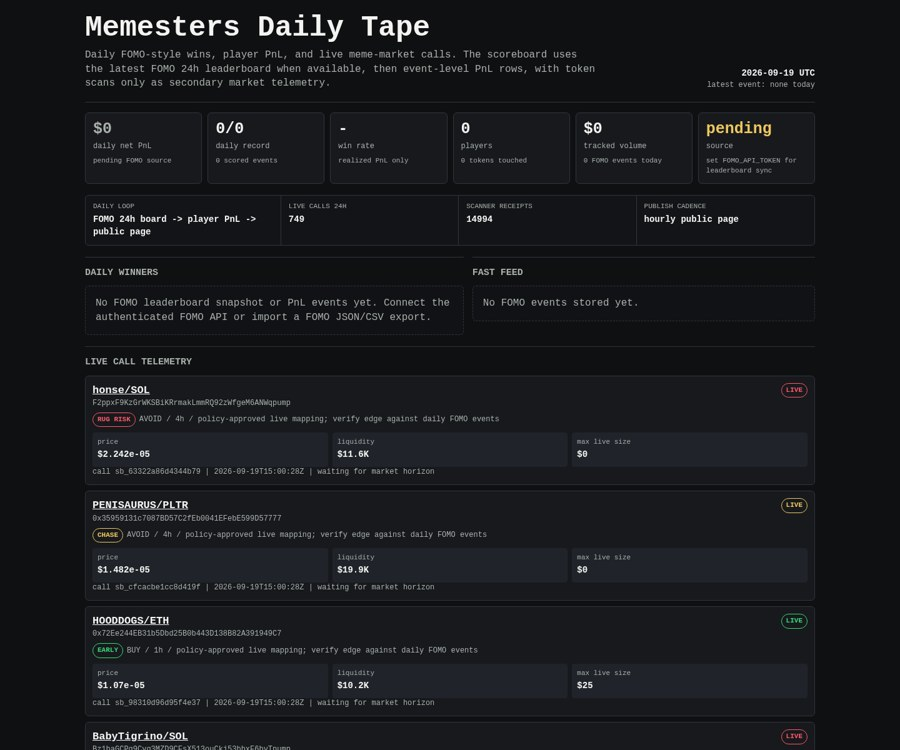
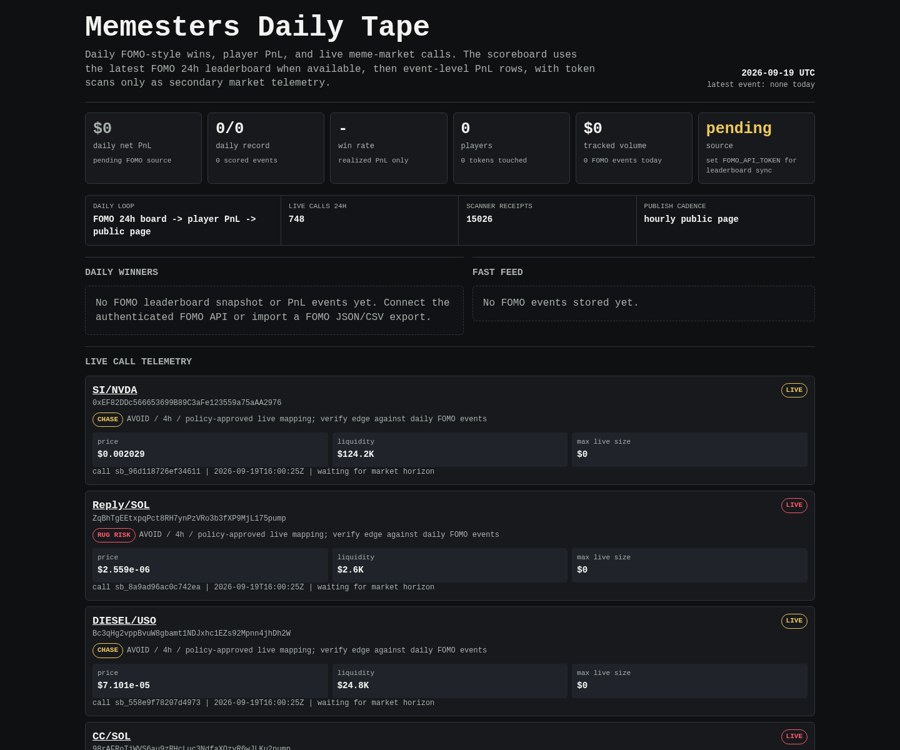
Update Memesters scoreboard

diff --git a/memesters/index.html b/memesters/index.html
@@ -149,8 +149,8 @@
 
     <div class="rail" aria-label="live operating loop">
       <div><span>daily loop</span><b>FOMO 24h board -> player PnL -> public page</b></div>
-      <div><span>live calls 24h</span><b>749</b></div>
-      <div><span>scanner receipts</span><b>14994</b></div>
+      <div><span>live calls 24h</span><b>748</b></div>
+      <div><span>scanner receipts</span><b>15026</b></div>
       <div><span>publish cadence</span><b>hourly public page</b></div>
     </div>
 
@@ -171,29 +171,8 @@
     <article class="receipt">
       <div class="receipt-head">
         <div>
-          <div class="pair"><a href="https://dexscreener.com/solana/hvkrals89qrv16wtbbz96duee4xdg2nk4fqrwd4tgmey">honse/SOL</a></div>
-          <div class="addr">F2ppxF9KzGrWKSBiKRrmakLmmRQ92zWfgeM6ANWqpump</div>
-          <div class="addr policy-line">
-            <span class="badge rug-risk">RUG RISK</span>
-            <span>AVOID / 4h / policy-approved live mapping; verify edge against daily FOMO events</span>
-          </div>
-        </div>
-        <span class="badge rug-risk">LIVE</span>
-      </div>
-      <div class="receipt-grid">
-        <div class="kv"><span>price</span><b>$2.242e-05</b></div>
-        <div class="kv"><span>liquidity</span><b>$11.6K</b></div>
-        <div class="kv"><span>max live size</span><b>$0</b></div>
-      </div>
-      <div class="outcomes">call sb_63322a86d4344b79 | 2026-09-19T15:00:28Z | waiting for market horizon</div>
-    </article>
-    
-
-    <article class="receipt">
-      <div class="receipt-head">
-        <div>
-          <div class="pair"><a href="https://dexscreener.com/robinhood/0xf53a5886f648023baadb52a7e153e67c9e652bf8">PENISAURUS/PLTR</a></div>
-          <div class="addr">0x35959131c7087BD57C2fEb0041EFebE599D57777</div>
+          <div class="pair"><a href="https://dexscreener.com/robinhood/0x229da7b0c376132113a48878fe680519265e9e93c45a17ae1569047c2dc4bd26">SI/NVDA</a></div>
+          <div class="addr">0xEF82DDc566653699B89C3aFe123559a75aAA2976</div>
           <div class="addr policy-line">
             <span class="badge chase">CHASE</span>
             <span>AVOID / 4h / policy-approved live mapping; verify edge against daily FOMO events</span>
@@ -202,40 +181,19 @@
         <span class="badge chase">LIVE</span>
       </div>
       <div class="receipt-grid">
-        <div class="kv"><span>price</span><b>$1.482e-05</b></div>
-        <div class="kv"><span>liquidity</span><b>$19.9K</b></div>
+        <div class="kv"><span>price</span><b>$0.002029</b></div>
+        <div class="kv"><span>liquidity</span><b>$124.2K</b></div>
         <div class="kv"><span>max live size</span><b>$0</b></div>
       </div>
-      <div class="outcomes">call sb_cfcacbe1cc8d419f | 2026-09-19T15:00:28Z | waiting for market horizon</div>
+      <div class="outcomes">call sb_96d118726ef34611 | 2026-09-19T16:00:25Z | waiting for market horizon</div>
     </article>
     
 
     <article class="receipt">
       <div class="receipt-head">
         <div>
-          <div class="pair"><a href="https://dexscreener.com/robinhood/0xdf707c3fccaf93e0c8a21c552651d8292d90b0af84260751d4046425fdd5a2fb">HOODDOGS/ETH</a></div>
-          <div class="addr">0x72Ee244EB31b5Dbd25B0b443D138B82A391949C7</div>
-          <div class="addr policy-line">
-            <span class="badge early">EARLY</span>
-            <span>BUY / 1h / policy-approved live mapping; verify edge against daily FOMO events</span>
-          </div>
-        </div>
-        <span class="badge early">LIVE</span>
-      </div>
-      <div class="receipt-grid">
-        <div class="kv"><span>price</span><b>$1.07e-05</b></div>
-        <div class="kv"><span>liquidity</span><b>$10.2K</b></div>
-        <div class="kv"><span>max live size</span><b>$25</b></div>
-      </div>
-      <div class="outcomes">call sb_98310d96d95f4e37 | 2026-09-19T15:00:28Z | waiting for market horizon</div>
-    </article>
-    
-
-    <article class="receipt">
-      <div class="receipt-head">
-        <div>
-          <div class="pair"><a href="https://dexscreener.com/solana/g1btdpy2teifbgxjlhenwy8rgtjphmuendjzfzggndsi">BabyTigrino/SOL</a></div>
-          <div class="addr">Bz1baGCPq9Cyq3MZD9CFsX513ouCkj53bbxF6byTpump</div>
+          <div class="pair"><a href="https://dexscreener.com/solana/gzsvkq4obnhzk17879rqfd2yymscbbsm62k2sg4pq297">Reply/SOL</a></div>
+          <div class="addr">ZqBhTgEEtxpqPct8RH7ynPzVRo3b3fXP9MjL175pump</div>
           <div class="addr policy-line">
             <span class="badge rug-risk">RUG RISK</span>
             <span>AVOID / 4h / policy-approved live mapping; verify edge against daily FOMO events</span>
@@ -244,19 +202,40 @@
         <span class="badge rug-risk">LIVE</span>
       </div>
       <div class="receipt-grid">
-        <div class="kv"><span>price</span><b>$2.574e-06</b></div>
+        <div class="kv"><span>price</span><b>$2.559e-06</b></div>
         <div class="kv"><span>liquidity</span><b>$2.6K</b></div>
         <div class="kv"><span>max live size</span><b>$0</b></div>
       </div>
-      <div class="outcomes">call sb_bc947c75d85b4e25 | 2026-09-19T15:00:28Z | waiting for market horizon</div>
+      <div class="outcomes">call sb_8a9ad96ac0c742ea | 2026-09-19T16:00:25Z | waiting for market horizon</div>
     </article>
     
 
     <article class="receipt">
       <div class="receipt-head">
         <div>
-          <div class="pair"><a href="https://dexscreener.com/bsc/0x98aa241e7a9f0e7176aa2b0c3f6816fa854c1091">DIAX/WBNB</a></div>
-          <div class="addr">0xd9a093f9ac6B2Ab0E2e15Eaf83dE3f5682A97777</div>
+          <div class="pair"><a href="https://dexscreener.com/solana/3rrbvdkjqpjfyh1mptgbfljquqnshu6ewk8etw95fxya">DIESEL/USO</a></div>
+          <div class="addr">Bc3qHg2vppBvuW8gbamt1NDJxhc1EZs92Mpnn4jhDh2W</div>
+          <div class="addr policy-line">
+            <span class="badge chase">CHASE</span>
+            <span>AVOID / 4h / policy-approved live mapping; verify edge against daily FOMO events</span>
+          </div>
+        </div>
+        <span class="badge chase">LIVE</span>
+      </div>
+      <div class="receipt-grid">
+        <div class="kv"><span>price</span><b>$7.101e-05</b></div>
+        <div class="kv"><span>liquidity</span><b>$24.8K</b></div>
+        <div class="kv"><span>max live size</span><b>$0</b></div>
+      </div>
+      <div class="outcomes">call sb_558e9f78207d4973 | 2026-09-19T16:00:25Z | waiting for market horizon</div>
+    </article>
+    
+
+    <article class="receipt">
+      <div class="receipt-head">
+        <div>
+          <div class="pair"><a href="https://dexscreener.com/solana/cmhv5rkl7axdimoaesxqjlvab7rjisbr7rnh6empvqts">CC/SOL</a></div>
+          <div class="addr">98rAFRoTjWVS6au9zRHcLuc3NdfaXQzvR6wJLKu2pump</div>
           <div class="addr policy-line">
             <span class="badge rug-risk">RUG RISK</span>
             <span>AVOID / 4h / policy-approved live mapping; verify edge against daily FOMO events</span>
@@ -265,19 +244,103 @@
         <span class="badge rug-risk">LIVE</span>
       </div>
       <div class="receipt-grid">
-        <div class="kv"><span>price</span><b>$2.133e-05</b></div>
-        <div class="kv"><span>liquidity</span><b>$14.8K</b></div>
+        <div class="kv"><span>price</span><b>$5.645e-05</b></div>
+        <div class="kv"><span>liquidity</span><b>$19.5K</b></div>
         <div class="kv"><span>max live size</span><b>$0</b></div>
       </div>
-      <div class="outcomes">call sb_68f456b956fc42e0 | 2026-09-19T15:00:28Z | waiting for market horizon</div>
+      <div class="outcomes">call sb_c12f4ff8776c479e | 2026-09-19T16:00:25Z | waiting for market horizon</div>
     </article>
     
 
     <article class="receipt">
       <div class="receipt-head">
         <div>
-          <div class="pair"><a href="https://dexscreener.com/robinhood/0xaff9b5ec59c1490f5df2aa234c5ea0bb62ade72a0332962ff7ec04024751df51">NEWSLY/ETH</a></div>
-          <div class="addr">0xeC302678955599248Fd269126191586dd58297C6</div>
+          <div class="pair"><a href="https://dexscreener.com/robinhood/0xe56fbc75e26ac8c0e36218dc96c445cc912fe3377338059f820a2497f14cb826">SI/ETH</a></div>
+          <div class="addr">0xada319ac0e1f755BB1D5d1ffA6797aCa98e6e4fC</div>
+          <div class="addr policy-line">
+            <span class="badge chase">CHASE</span>
+            <span>AVOID / 4h / policy-approved live mapping; verify edge against daily FOMO events</span>
+          </div>
+        </div>
+        <span class="badge chase">LIVE</span>
+      </div>
+      <div class="receipt-grid">
+        <div class="kv"><span>price</span><b>$0.0001215</b></div>
+        <div class="kv"><span>liquidity</span><b>$33.2K</b></div>
+        <div class="kv"><span>max live size</span><b>$0</b></div>
+      </div>
+      <div class="outcomes">call sb_60783157ba1e48fe | 2026-09-19T16:00:25Z | waiting for market horizon</div>
+    </article>
+    
+
+    <article class="receipt">
+      <div class="receipt-head">
+        <div>
+          <div class="pair"><a href="https://dexscreener.com/arc/0xfaa448afbaa9809acf8c6d42dd931ecc31d2d2b0b65ae4ad7b9336f711049bdd">UPCAT/USDC</a></div>
+          <div class="addr">0x3dD8Ef5722a1F9cE703916F897333BCCAF4Bd6D9</div>
+          <div class="addr policy-line">
+            <span class="badge chase">CHASE</span>
+            <span>AVOID / 4h / policy-approved live mapping; verify edge against daily FOMO events</span>
+          </div>
+        </div>
+        <span class="badge chase">LIVE</span>
+      </div>
+      <div class="receipt-grid">
+        <div class="kv"><span>price</span><b>$4.58e-05</b></div>
+        <div class="kv"><span>liquidity</span><b>$18.8K</b></div>
+        <div class="kv"><span>max live size</span><b>$0</b></div>
+      </div>
+      <div class="outcomes">call sb_ad3c9e7c13e64969 | 2026-09-19T16:00:24Z | waiting for market horizon</div>
+    </article>
+    
+
+    <article class="receipt">
+      <div class="receipt-head">
+        <div>
+          <div class="pair"><a href="https://dexscreener.com/robinhood/0xce081cb94cbea8ff0cc00c2be82d6c741369ed4a">SI/WETH</a></div>
+          <div class="addr">0xCEaa9679Aa4800C015e49D2751b726E8d4816636</div>
+          <div class="addr policy-line">
+            <span class="badge chase">CHASE</span>
+            <span>AVOID / 4h / policy-approved live mapping; verify edge against daily FOMO events</span>
+          </div>
+        </div>
+        <span class="badge chase">LIVE</span>
+      </div>
+      <div class="receipt-grid">
+        <div class="kv"><span>price</span><b>$0.0004923</b></div>
+        <div class="kv"><span>liquidity</span><b>$73.5K</b></div>
+        <div class="kv"><span>max live size</span><b>$0</b></div>
+      </div>
+      <div class="outcomes">call sb_a5990866f07444e5 | 2026-09-19T16:00:24Z | waiting for market horizon</div>
+    </article>
+    
+
+    <article class="receipt">
+      <div class="receipt-head">
+        <div>
+          <div class="pair"><a href="https://dexscreener.com/solana/daqikrje2cokuz3vda1l6zcqfharvqlujltaheeijf8j">SI/NVDAx</a></div>
+          <div class="addr">67buYJjYX5usoVtefwS5vXJvELK2ijxD334igCjXsNh4</div>
+          <div class="addr policy-line">
+            <span class="badge chase">CHASE</span>
+            <span>AVOID / 4h / policy-approved live mapping; verify edge against daily FOMO events</span>
+          </div>
+        </div>
+        <span class="badge chase">LIVE</span>
+      </div>
+      <div class="receipt-grid">
+        <div class="kv"><span>price</span><b>$0.000367</b></div>
+        <div class="kv"><span>liquidity</span><b>$58.1K</b></div>
+        <div class="kv"><span>max live size</span><b>$0</b></div>
+      </div>
+      <div class="outcomes">call sb_21d1198e91b54cf7 | 2026-09-19T16:00:24Z | waiting for market horizon</div>
+    </article>
+    
+
+    <article class="receipt">
+      <div class="receipt-head">
+        <div>
+          <div class="pair"><a href="https://dexscreener.com/robinhood/0x2614c9479e47c377fb51d4d3717d510765cb368a">Annoyed/WETH</a></div>
+          <div class="addr">0xe650C71200eBDF80A63B40a88B3B130aba2ca86a</div>
           <div class="addr policy-line">
             <span class="badge early">EARLY</span>
             <span>BUY / 1h / policy-approved live mapping; verify edge against daily FOMO events</span>
@@ -286,40 +349,19 @@
         <span class="badge early">LIVE</span>
       </div>
       <div class="receipt-grid">
-        <div class="kv"><span>price</span><b>$5.28e-05</b></div>
-        <div class="kv"><span>liquidity</span><b>$21.9K</b></div>
-        <div class="kv"><span>max live size</span><b>$39</b></div>
+        <div class="kv"><span>price</span><b>$7.931e-06</b></div>
+        <div class="kv"><span>liquidity</span><b>$7.9K</b></div>
+        <div class="kv"><span>max live size</span><b>$95</b></div>
       </div>
-      <div class="outcomes">call sb_fa4959d04ad04de2 | 2026-09-19T15:00:28Z | waiting for market horizon</div>
+      <div class="outcomes">call sb_36deda4711dd468c | 2026-09-19T15:45:24Z | waiting for market horizon</div>
     </article>
     
 
     <article class="receipt">
       <div class="receipt-head">
         <div>
-          <div class="pair"><a href="https://dexscreener.com/robinhood/0xcd8042b77d2e86a2204b5fb842fb885a5277ad8756de2a4db97a3d0e73963b84">GHOST/ETH</a></div>
-          <div class="addr">0x1B617f3CEE8EB9cabe03A32b1F0a1797302DbFDE</div>
-          <div class="addr policy-line">
-            <span class="badge early">EARLY</span>
-            <span>BUY / 1h / policy-approved live mapping; verify edge against daily FOMO events</span>
-          </div>
-        </div>
-        <span class="badge early">LIVE</span>
-      </div>
-      <div class="receipt-grid">
-        <div class="kv"><span>price</span><b>$8.261e-05</b></div>
-        <div class="kv"><span>liquidity</span><b>$27.3K</b></div>
-        <div class="kv"><span>max live size</span><b>$151</b></div>
-      </div>
-      <div class="outcomes">call sb_f62720061f434d9f | 2026-09-19T15:00:28Z | waiting for market horizon</div>
-    </article>
-    
-
-    <article class="receipt">
-      <div class="receipt-head">
-        <div>
-          <div class="pair"><a href="https://dexscreener.com/hyperevm/0x1bd1301545c0d539b88952a5b933eb1edb8565aa">HYPIO/WHYPE</a></div>
-          <div class="addr">0xB0C7F5A467E3965d76D8EEd4b2589Ab2f3E19116</div>
+          <div class="pair"><a href="https://dexscreener.com/bsc/0x5f7e397e4e47daa46085b80c9c5477002058d3cd">Conviction/WBNB</a></div>
+          <div class="addr">0xB0F15CFbE1670439fcb343C4AFD650Cb776f28fF</div>
           <div class="addr policy-line">
             <span class="badge chase">CHASE</span>
             <span>AVOID / 4h / policy-approved live mapping; verify edge against daily FOMO events</span>
@@ -328,53 +370,11 @@
         <span class="badge chase">LIVE</span>
       </div>
       <div class="receipt-grid">
-        <div class="kv"><span>price</span><b>$2.634e-05</b></div>
-        <div class="kv"><span>liquidity</span><b>$11.4K</b></div>
+        <div class="kv"><span>price</span><b>$1.602e-05</b></div>
+        <div class="kv"><span>liquidity</span><b>$14.2K</b></div>
         <div class="kv"><span>max live size</span><b>$0</b></div>
       </div>
-      <div class="outcomes">call sb_436625ff00284bab | 2026-09-19T15:00:28Z | waiting for market horizon</div>
-    </article>
-    
-
-    <article class="receipt">
-      <div class="receipt-head">
-        <div>
-          <div class="pair"><a href="https://dexscreener.com/solana/hucw8klryoma5gmzvaxf2b1jxdebhxnvkllgradjjhbj">INURANUS/SPCXx</a></div>
-          <div class="addr">FKWAyaxNccZCgT142vdMT6658geBEJb7cdNNkMb86Kwo</div>
-          <div class="addr policy-line">
-            <span class="badge chase">CHASE</span>
-            <span>AVOID / 4h / policy-approved live mapping; verify edge against daily FOMO events</span>
-          </div>
-        </div>
-        <span class="badge chase">LIVE</span>
-      </div>
-      <div class="receipt-grid">
-        <div class="kv"><span>price</span><b>$0.0003957</b></div>
-        <div class="kv"><span>liquidity</span><b>$59.9K</b></div>
-        <div class="kv"><span>max live size</span><b>$0</b></div>
-      </div>
-      <div class="outcomes">call sb_009652e1d8c24590 | 2026-09-19T14:45:22Z | waiting for market horizon</div>
-    </article>
-    
-
-    <article class="receipt">
-      <div class="receipt-head">
-        <div>
-          <div class="pair"><a href="https://dexscreener.com/solana/bkknmza8sucsrla5twxbkzb8x3agwmn9egeynelfeac9">牛市/SOL</a></div>
-          <div class="addr">Bfcs7bKFD7Yk55hWDSNi3iHdDzTz5572hV9NQvjRpump</div>
-          <div class="addr policy-line">
-            <span class="badge chase">CHASE</span>
-            <span>AVOID / 4h / policy-approved live mapping; verify edge against daily FOMO events</span>
-          </div>
-        </div>
-        <span class="badge chase">LIVE</span>
-      </div>
-      <div class="receipt-grid">
-        <div class="kv"><span>price</span><b>$8.461e-05</b></div>
-        <div class="kv"><span>liquidity</span><b>$24.1K</b></div>
-        <div class="kv"><span>max live size</span><b>$0</b></div>
-      </div>
-      <div class="outcomes">call sb_45f030544f6d4107 | 2026-09-19T14:45:22Z | waiting for market horizon</div>
+      <div class="outcomes">call sb_7d3833b229bd48a1 | 2026-09-19T15:45:24Z | waiting for market horizon</div>
     </article>
     
     </section>
